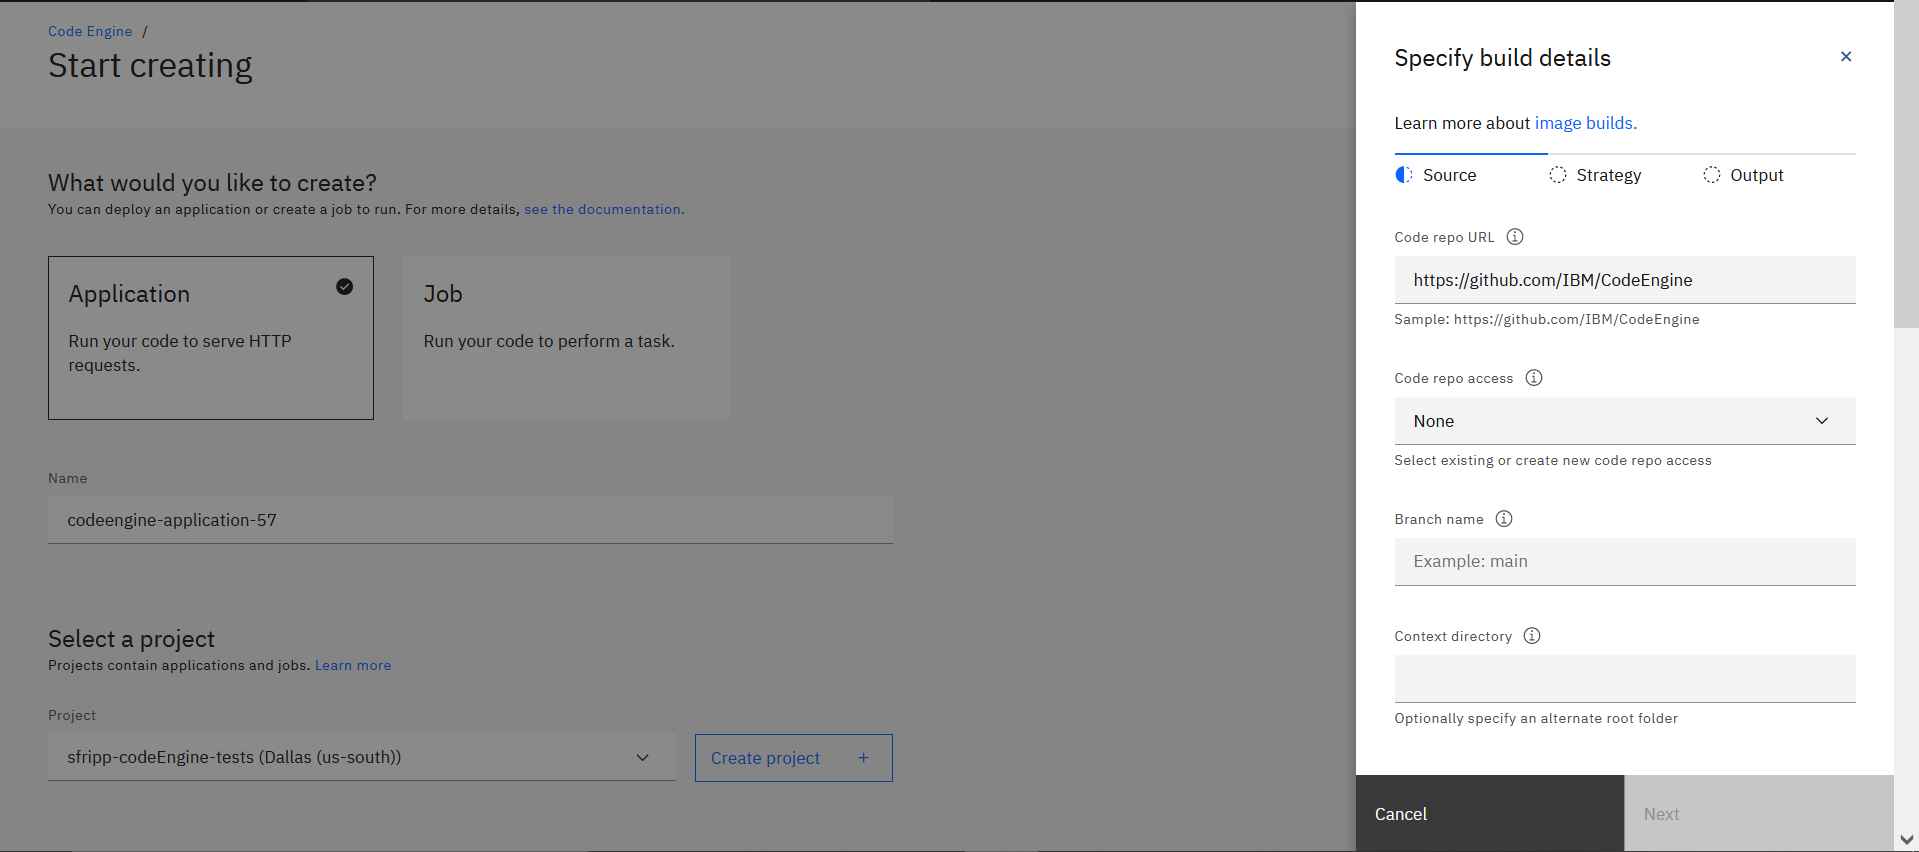
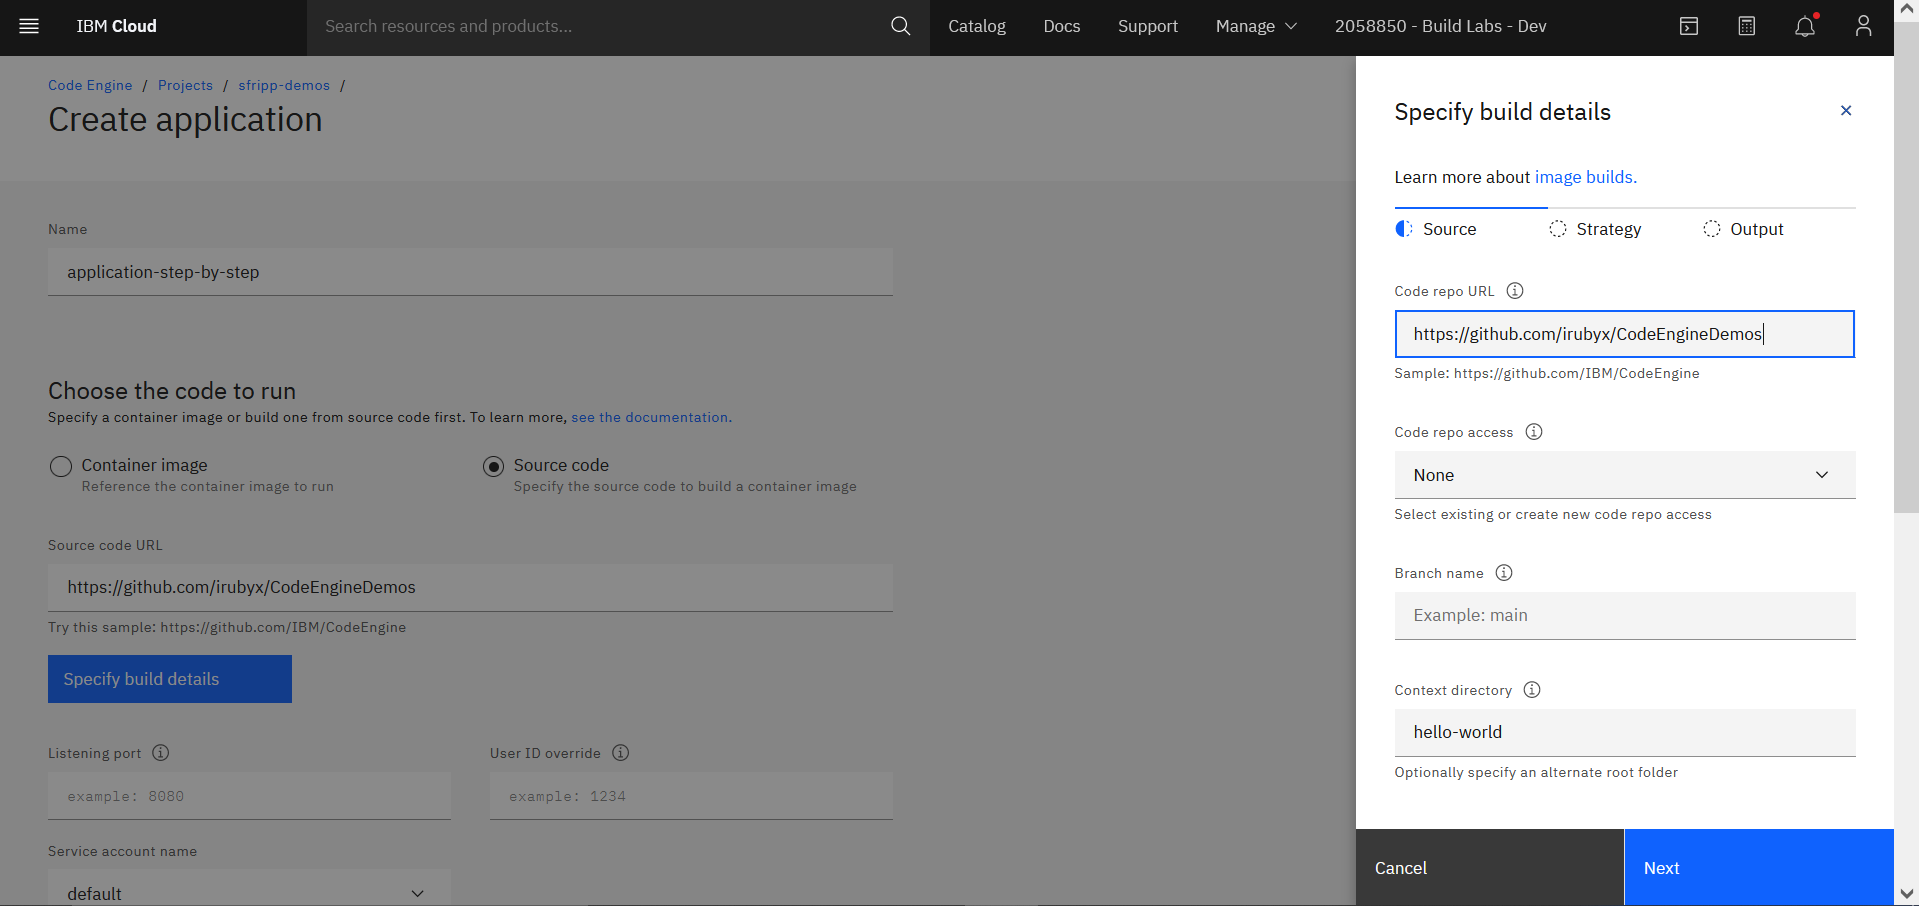
Readme actualizado

diff --git a/README.md b/README.md
@@ -11,6 +11,8 @@ Repositorio creado con el fin de almacenar el código de las aplicaciones de dem
 - [Code Engine Demos](#code-engine-demos)
   - [Contenido](#contenido)
   - [Demos disponibles](#demos-disponibles)
+  - [Despliegue de application en Code Engine](#despliegue-de-application-en-code-engine)
+  - [Despliegue de Job en Code Engine](#despliegue-de-job-en-code-engine)
 
 ## Demos disponibles
 Actualmente las aplicaciones de demo disponibles en el repositorio son las siguientes:
@@ -23,3 +25,99 @@ Actualmente las aplicaciones de demo disponibles en el repositorio son las sigui
   - Aplicación que dado una ubicación en el mundo, devuelve el clima actual en dicho lugar. A modo de ejemplo de como podríamos obtener un endpoint para visitar nuestra página desde donde deseemos.
 
 Cada una de ellas contiene un archivo *README.md* el cuál contiene instrucciones de como utilizar la app o job y como hacer el despliegue en IBM Cloud Code Engine.
+
+## Despliegue de application en Code Engine
+En esta sección se explica paso a paso, como realizar un despliegue de una *application* en Code Engine.
+
+Para comenzar tenemos 2 opciones. La primera es comenzar desde la página principal de Code Engine dando click en la opción de *Start Creating* del apartado **Start with source code**. Y la segunda es comenzar desde el apartado de *Applications* de un proyecto previamente seleccionado, dando click en la opción *Create*. A continuación se muestran los dos caminos:
+
+![](imgs/Comienzo1.png)
+
+<hr>
+
+![](imgs/Comienzo2.png)
+
+Si se toma el primer camino, una vez dentro de la interfaz de creación, debemos seleccionar que vamos a crear una *Application* y no un *Job*. De ahora en más, lo que sigue no difiere según el camino que se haya escogido para comenzar.
+
+En primer lugar se nos solicita indicar un nombre para la *Application*. Luego se escoge entre crear la *Application* a partir de una imagen previamente creada, que puede estar almacenada en Dockerhub o en un IBM Container Registry; o la crear una imagen en base a un código fuente almacenado en GitHub. En este caso, se escoge la opción *Source Code* y se proporciona el link al repositorio que almacena el código. Luego de esto, se da click en la opción *Specify build details* para otorgar a Code Engine ciertas indicaciones a la hora de crear la imagen de nuestro código:
+
+![](imgs/Paso1.png)
+
+Una vez se despliegue el menu lateral para otorgar detalles de la construcción de la imagen, veremos el primero de tres pasos a completar llamado *Source*. Este paso se completa de la siguiente manera:
+
+- **Code Repo URL**
+  - Se indica el URL al repositorio de GitHub que contiene el código de la *Application* que se desea desplegar.
+- **Code Repo Access**
+  - En caso de que el repositorio sea público, se indica *None* como opción. En caso de ser privado, se debe otorgar acceso al mismo mediante una *SSH private key*.
+- **Branch Name**
+  - En caso de estar trabajando en una rama distinta a *main* se debe indicar en esta opción.
+- **Context Directory**
+  - En caso de que el código de la *Application* que se desea desplegar, se encuentre en una sub-carpeta dentro del mismo repositorio, se debe indicar en esta opción.
+
+![](imgs/Source.png)
+
+El segundo paso es indicar la estrategia de construcción de la imagen de nuestro código. Este paso se completa de la siguiente manera:
+
+- **Strategy**
+  - Se debe seleccionar si se utilizará un archivo Dockerfile o Cloud Native Buildpack. En caso de escoger la primer opción, se solicitará el nombre del archivo.
+- **Dockerfile**
+  - El nombre del archivo Dockerfile de nuestra *Application*.
+- **Timeout**:
+  - Se debe indicar el timeout previo a que la construcción de la imagen falle. Por default: 10 minutos.
+- **Build Resources**
+  - En esta opción se indica a Code Engine la cantidad de recursos que deberá utilizar a la hora de construir nuestra imagen.
+
+![](imgs/Strategy.png)
+
+El último paso es indicarle a Code Engine, donde almacenar la imagen creada a partir de nuestro código. Este paso se completa de la siguiente manera:
+
+- **Registry server**
+  - Se debe indicar donde se almacenará la imagen creada, puede ser tanto en Dockerhub como en IBM Container Registry.
+- **Registry access secret**
+  - Se debe otorgar acceso, a Dockerhub o al Container Registry, esto se lleva a cabo mediante esta configuración.
+- **Namespace**
+  - Namespace dentro del contenedor de imágenes seleccionado, donde se almacenará la imagen creada.
+- **Repository (image name)**
+  - Como bien lo indica el nombre de la opción, es el nombre de la imagen.
+- **Tag**
+  - La opción de tag es una forma de mantener un versionado entre las imágenes creadas. Por ejemplo: miImagen:1.0, miImagen:2.0, ..., etc.
+
+![](imgs/Output.png)
+
+Una vez especificados todos los detalles acerca de como se desea crear la imagen de nuestro código, opcionalmente podemos indicarle a Code Engine el *Listening port* para las peticiones HTTP (por default: 8080), y el *User ID override* para indicarle una id específica para correr la imagen.\
+Luego, se puede seleccionar un *Service account name*, esto es para el manejo de los secretos y el acceso dentro de Kubernetes.\
+Y finalmente podemos especificar la visibilidad de la *Application* que estamos creando.
+
+- **Public**
+  - La aplicación podrá recibir peticiones desde la red pública de internet y desde el proyecto.
+- **Private**
+  - La aplicación podrá recibir peticiones desde el proyecto y desde la red privada de internet.
+- **Project-Only**
+  - La aplicación solo podrá recibir peticiones desde el proyecto.
+
+![](imgs/Paso2.png)
+
+En el apartado de *Runtime Settings*, existe la posibilidad de editar las siguientes opciones:
+
+- **Number of instances**
+  - Se deberá indicar el mínimo y el máximo de instancias deseadas para nuestra aplicación. Por default: mínimo = 0 y máximo = 10.
+- **Instance resources**
+  - Cuántos recursos queremos dedicar para cada instancia creada de nuestra aplicación. Por default: 1vCPU/4 GB.
+- **Requests**
+  - Cantidad de peticiones mínimas y máximas por cada instancia de nuestra aplicación. Asi como también el timeout para cada una de las peticiones. Por default: mínimo: 100, máximo: 100 y timeout: 300 segundos.
+
+![](imgs/Paso3.png)
+
+Llegando al final de la página, se encuentra el apartado *Environmental variables*. Esta sección es opcional, pero en caso de que el código de nuestra aplicación contenga variables de entorno, se deberán  agregar en esta sección.
+
+![](imgs/Paso4.png)
+
+Por último, se encuentra el apartado *Command override* que al igual que el anterior, es opcional. En este apartado se ha de indicar, en caso de ser necesario, que comandos o argumentos se desean utilizar (reemplazando los que son indicados por defecto) a la hora de crear la imagen. 
+
+![](imgs/Paso5.png)
+
+Para finalizar todo el proceso, se da click en *Create* para crear la aplicación. Una vez termine el proceso de *Build* de nuestra imagen y el estado de la aplicación sea *Ready*, podemos acceder a la misma mediante el URL provisto por el botón *Test application* ubicado en la parte superior derecha. O de igual manera, accediendo al URL provisto por el apartado de *Endpoints*.
+
+## Despliegue de Job en Code Engine
+El proceso para desplegar un *Job* en Code Engine, es igual al de desplegar una *Application*, con la única diferencia que no se solicita ni un *Listening Port* ni un *User ID override*. Además, no se otorga un endpoint por lo que no será necesario indicar la visibilidad del mismo.\
+Debido a la similaridad entre los dos procesos de creación, recomiendo seguir los pasos de la sección anterior (**Despliegue de Application en Code Engine**) para crear un *Job*.
